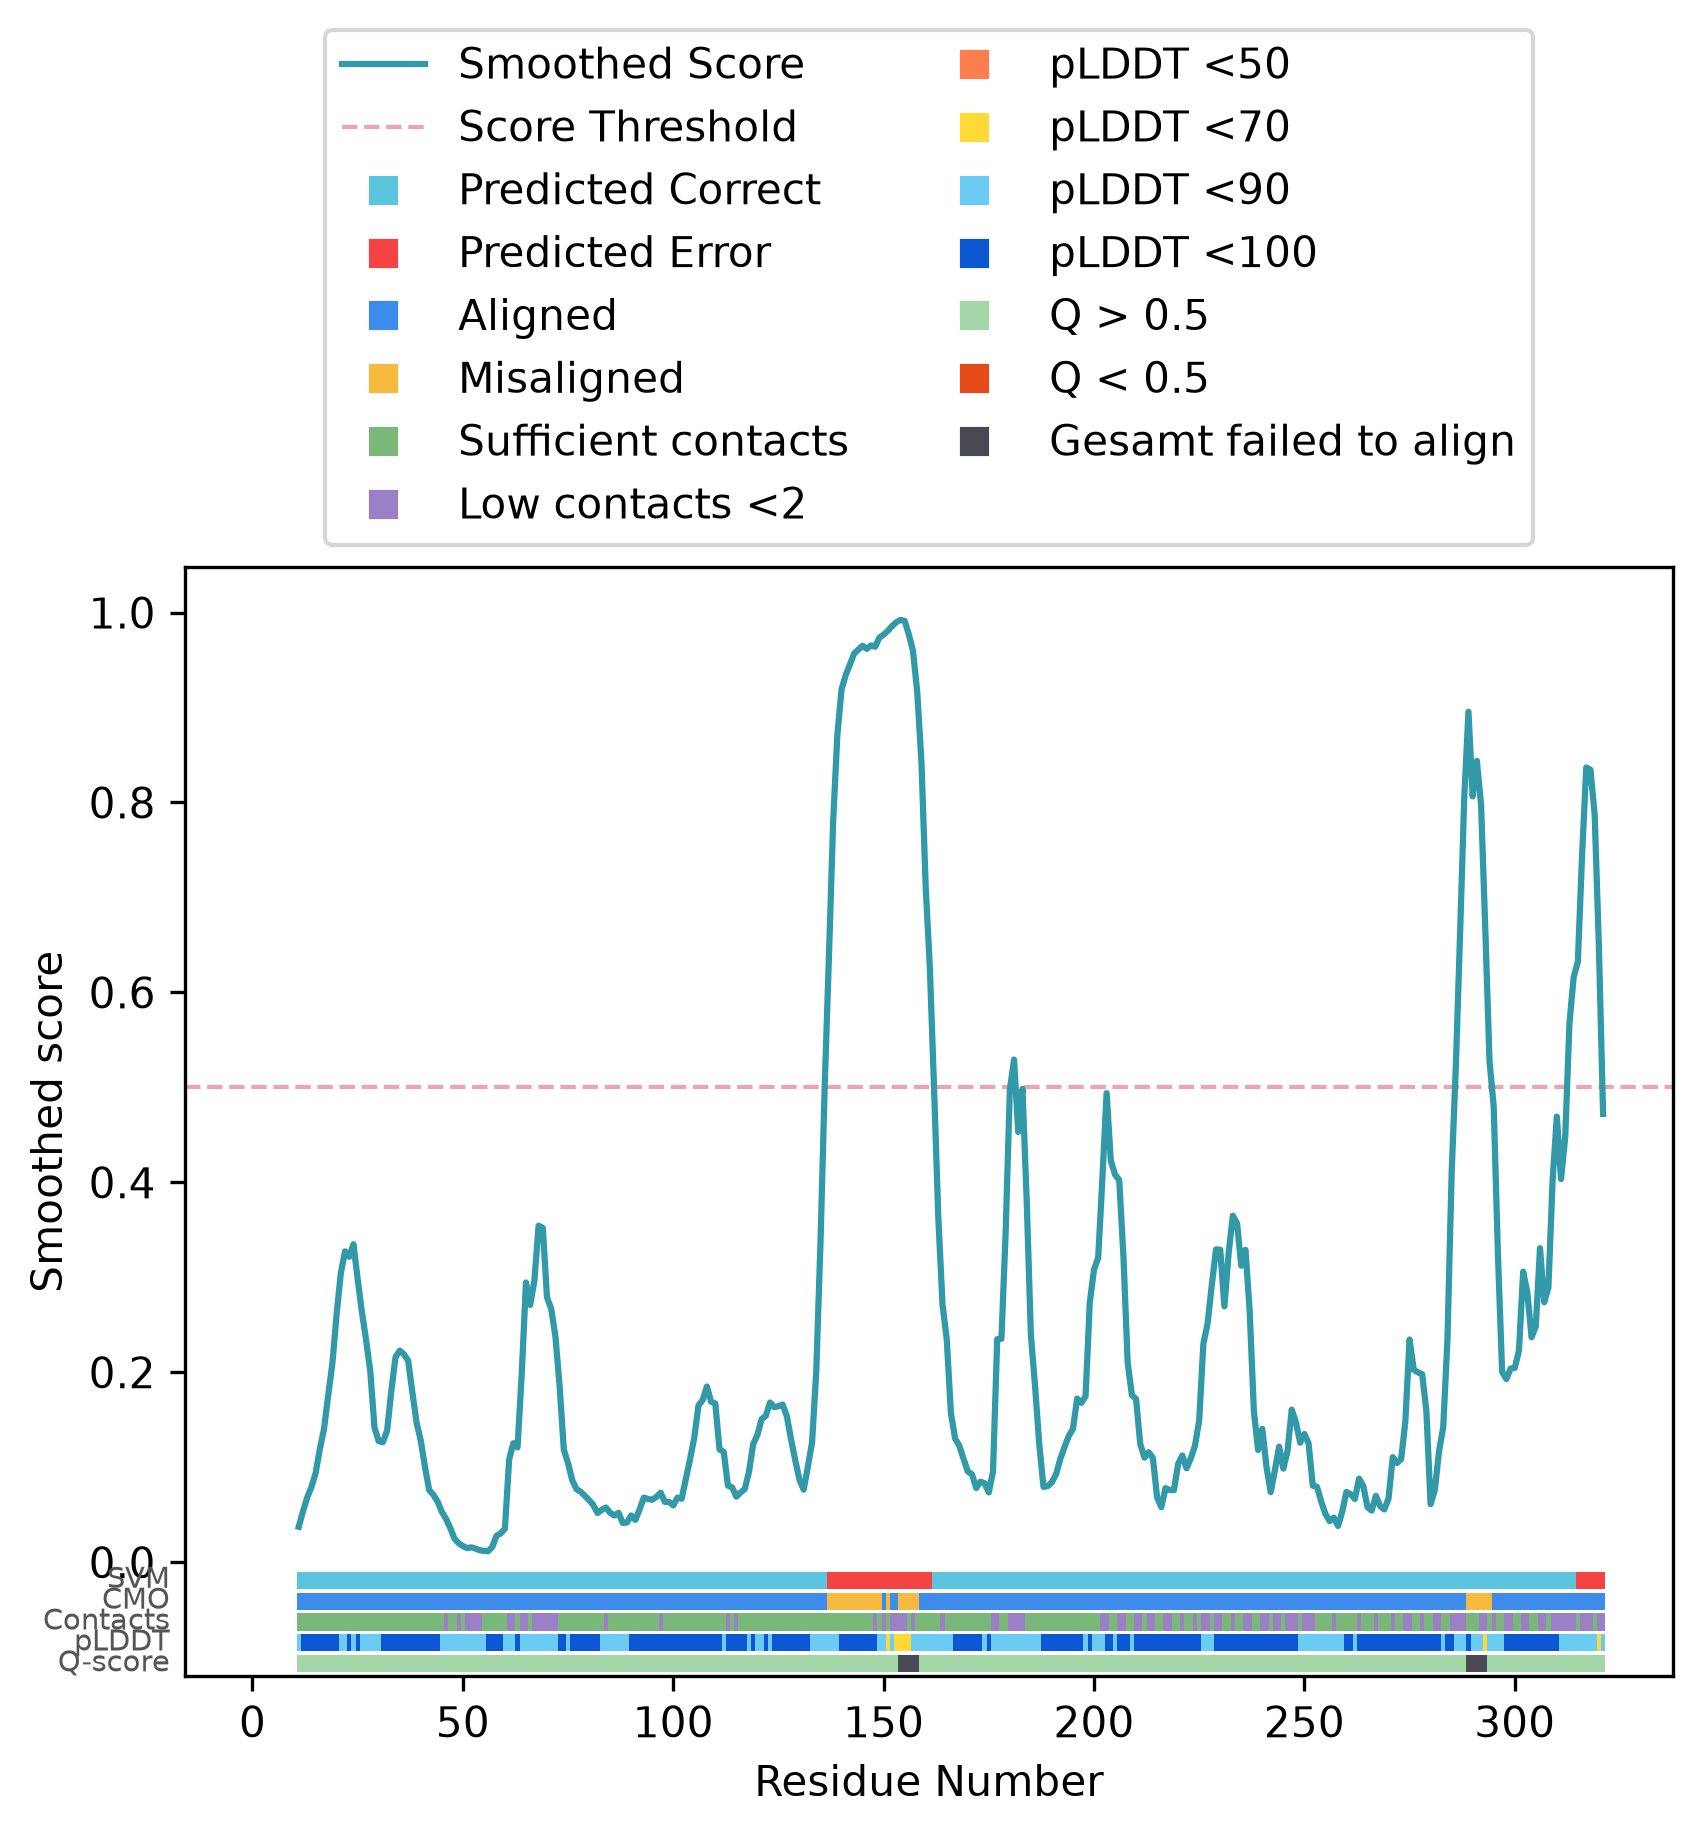
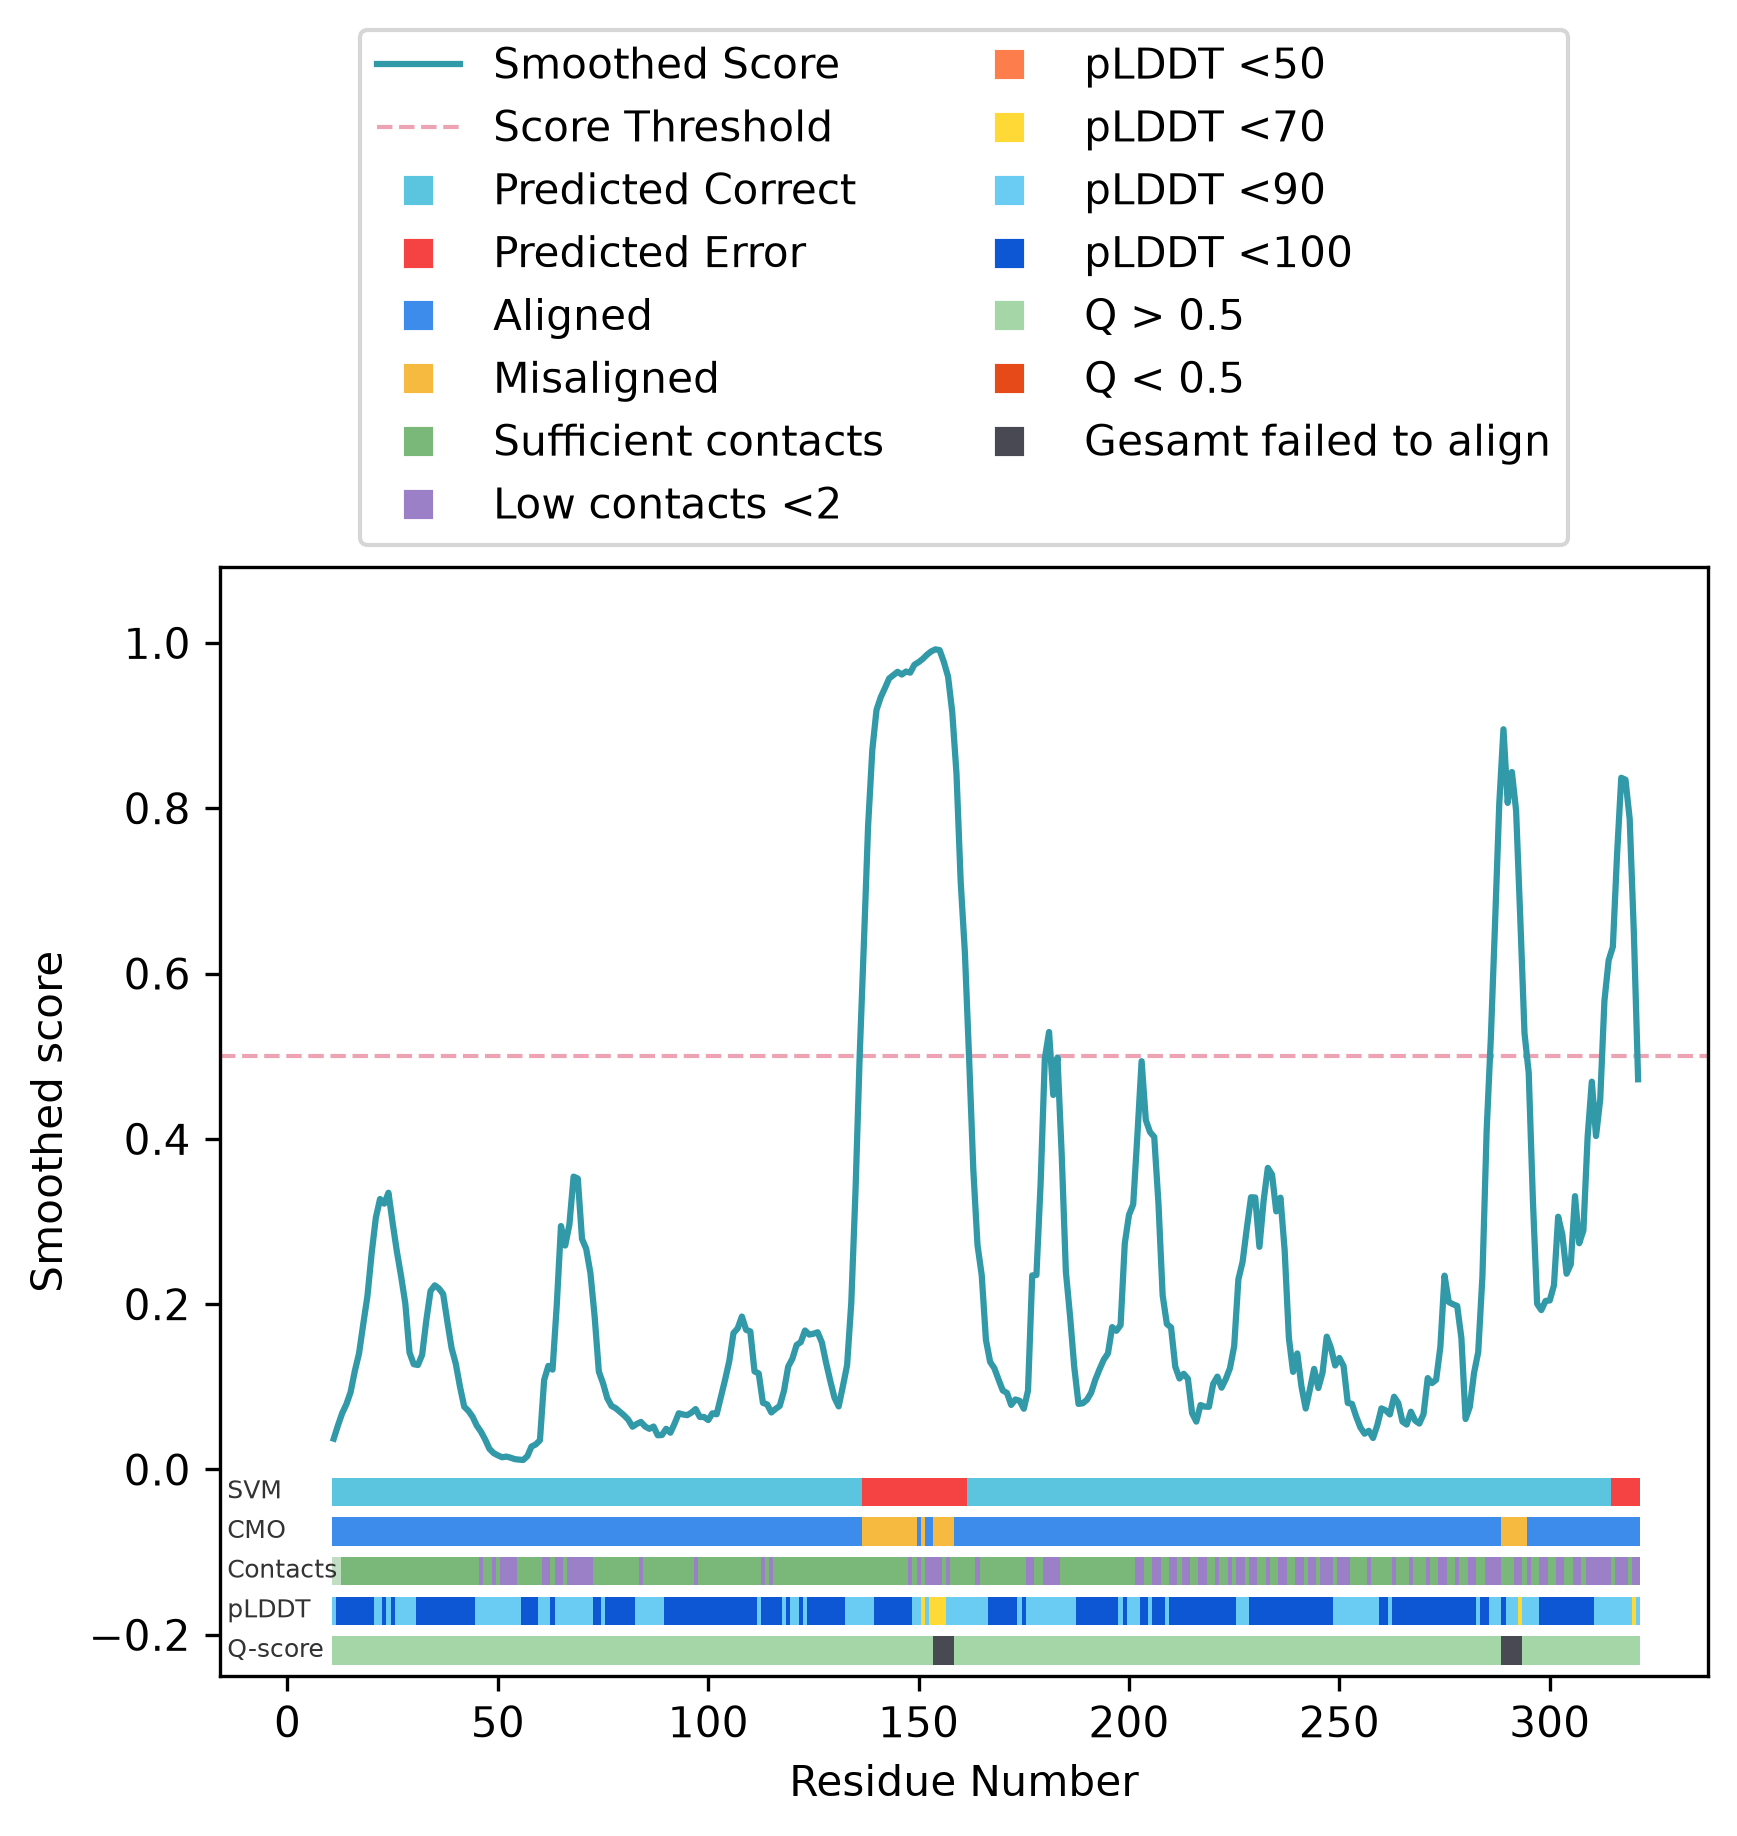
improve bar row layout in ModelValidationFigure
- Move row labels inside the axes (right of y-axis) with a semi-transparent
  white background so they are readable over the coloured bars
- Increase bar height (0.018 → 0.034) and gap (0.004 → 0.014) to give the
  bar section more visual weight and ensure 6 pt labels fit without overlap
- Cap ylim top at 1.10 × peak score rather than auto-scale, removing
  excess whitespace above the score curve (especially visible for RNA)
- Regenerate protein and RNA docs figures

diff --git a/conkit/plot/modelvalidation.py b/conkit/plot/modelvalidation.py
@@ -598,9 +598,10 @@ class ModelValidationFigure(Figure):
 
         # Each bar row is a filled band of height _BAR_HEIGHT, separated by _BAR_GAP.
         # bar_top tracks the top edge of the next row to be drawn.
+        # Step sized so a 6pt label inside the bar has comfortable clearance.
         _BAR_TOP = -0.01
-        _BAR_HEIGHT = 0.018
-        _BAR_GAP = 0.004
+        _BAR_HEIGHT = 0.034
+        _BAR_GAP = 0.014
         _BAR_STEP = _BAR_HEIGHT + _BAR_GAP
         bar_top = _BAR_TOP
 
@@ -617,10 +618,11 @@ class ModelValidationFigure(Figure):
                 self.ax.bar(resnums, _BAR_HEIGHT, bottom=bar_top - _BAR_HEIGHT, **kwargs)
 
         def _label_bar(text):
-            """Place a row label just outside the left edge of the axes."""
-            self.ax.text(-0.01, bar_top - _BAR_HEIGHT / 2, text,
-                         transform=_blend, ha='right', va='center',
-                         fontsize=7, color='#555555')
+            """Place a row label just inside the left edge of the axes, over the bars."""
+            self.ax.text(0.005, bar_top - _BAR_HEIGHT / 2, text,
+                         transform=_blend, ha='left', va='center',
+                         fontsize=6, color='#333333', clip_on=False,
+                         bbox=dict(boxstyle='square,pad=0.15', fc='white', alpha=0.55, ec='none'))
 
         if RUN_SVM:
             scores = self.data.set_index('RESNUM')['SCORE'].to_dict()
@@ -717,7 +719,9 @@ class ModelValidationFigure(Figure):
                 _label_bar('Q-score')
                 bar_top -= _BAR_STEP
 
-        self.ax.set_ylim(bottom=bar_top)
+        # Add 10 % headroom above the actual score peak so the curve doesn't hug the top edge.
+        score_top = float(np.nanmax(self.smooth_scores)) * 1.10 if RUN_SVM else None
+        self.ax.set_ylim(bottom=bar_top, top=score_top)
         self.ax.axhline(svm_threshold, **LINEKWARGS)
         self.ax.set_xlabel('Residue Number')
         self.ax.set_ylabel('Smoothed score')
